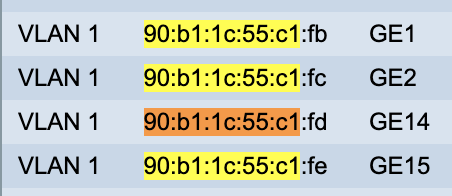
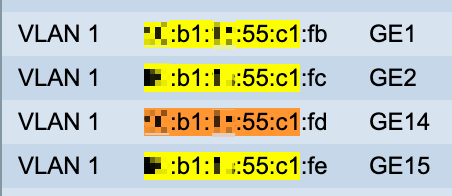
REMOVE IP adresses and MAC adresses from HYPER-V VLAN TAGGED SETTINGS

diff --git a/docs/Configuration/HYPER-V/How-To-Use-VLAN-ON-VMs.md b/docs/Configuration/HYPER-V/How-To-Use-VLAN-ON-VMs.md
@@ -50,7 +50,7 @@ network:
     vlan2:
       id: 2
       link: eth0
-      addresses: [10.2.10.251/23]
+      addresses: [10.*.*.251/23]
       dhcp4: false
   version: 2
 ```
@@ -62,8 +62,8 @@ netplan apply
 for check settings, run command: ifconfig  
 ```
 vlan2: flags=4163<UP,BROADCAST,RUNNING,MULTICAST>  mtu 1500
-        inet 10.2.10.251  netmask 255.255.254.0  broadcast 10.2.11.255
-        inet6 fe80::215:5dff:fe0a:d0c  prefixlen 64  scopeid 0x20<link>
+        inet 10.*.*.251  netmask 255.255.254.0  broadcast 10.*.*.255
+        inet6 fe*::*:*dff:fe*a:*0c  prefixlen 64  scopeid 0x20<link>
         ether 00:15:5d:0a:0d:0c  txqueuelen 1000  (Ethernet)
         RX packets 203984  bytes 17621645 (17.6 MB)
         RX errors 0  dropped 0  overruns 0  frame 0
